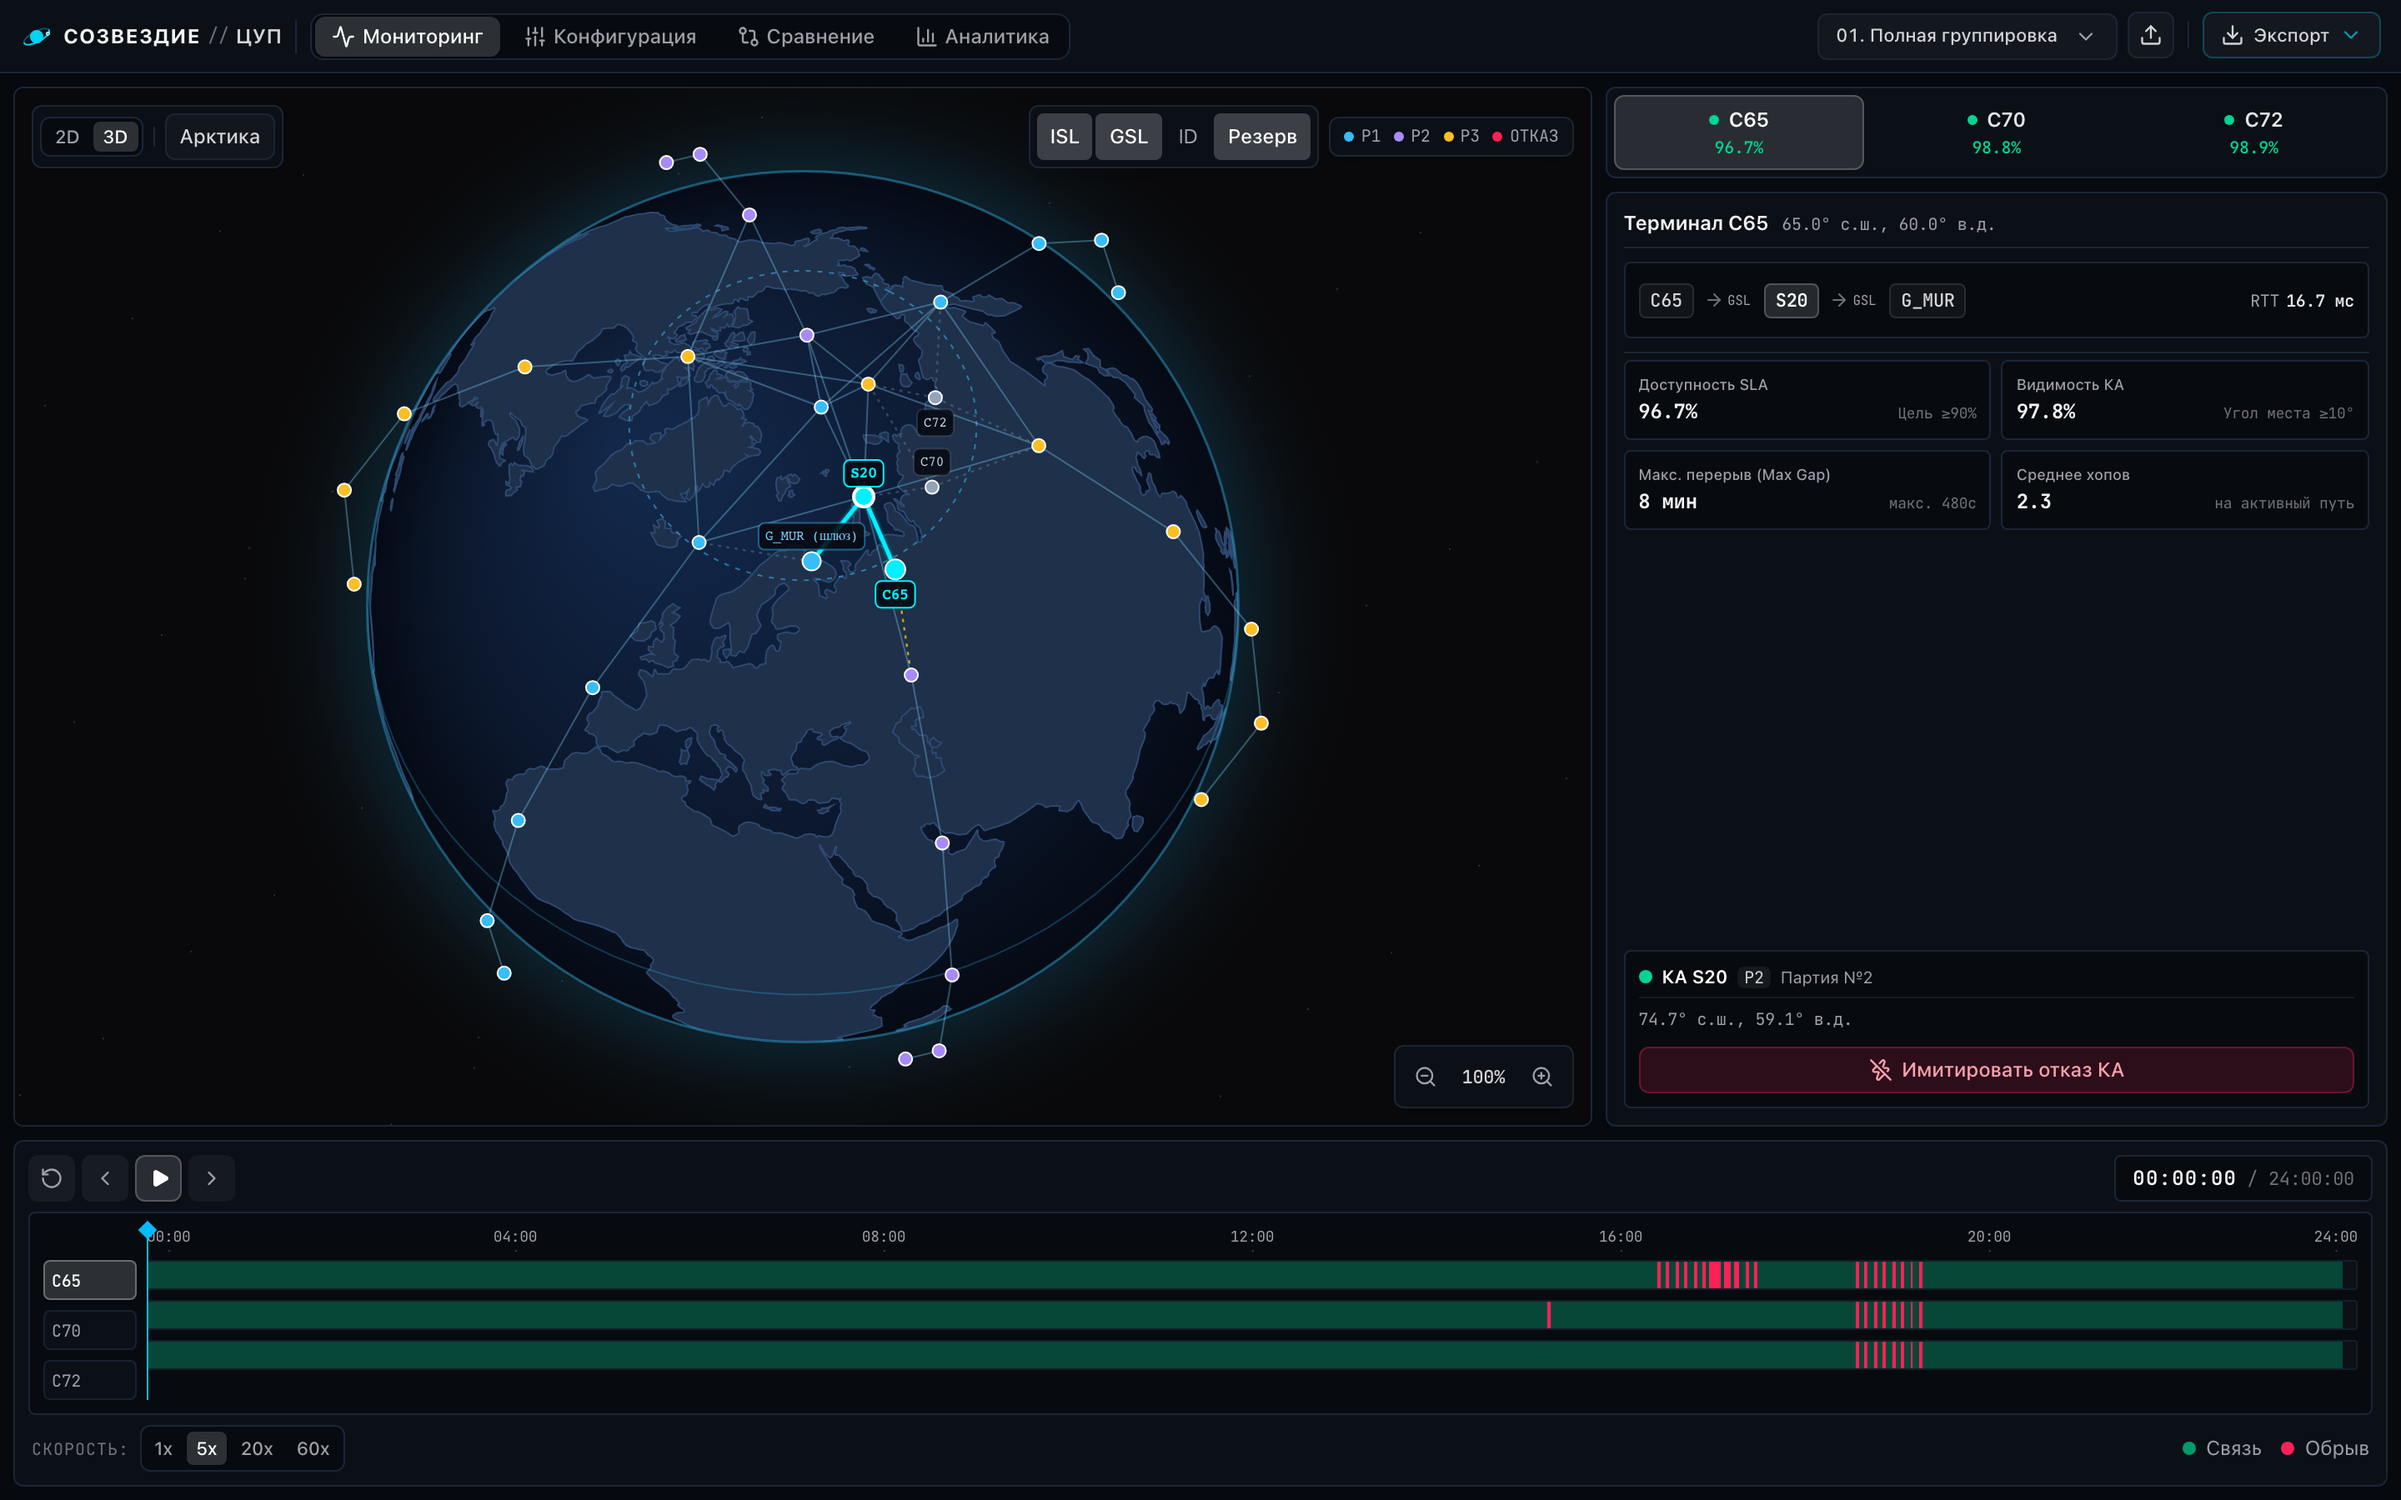
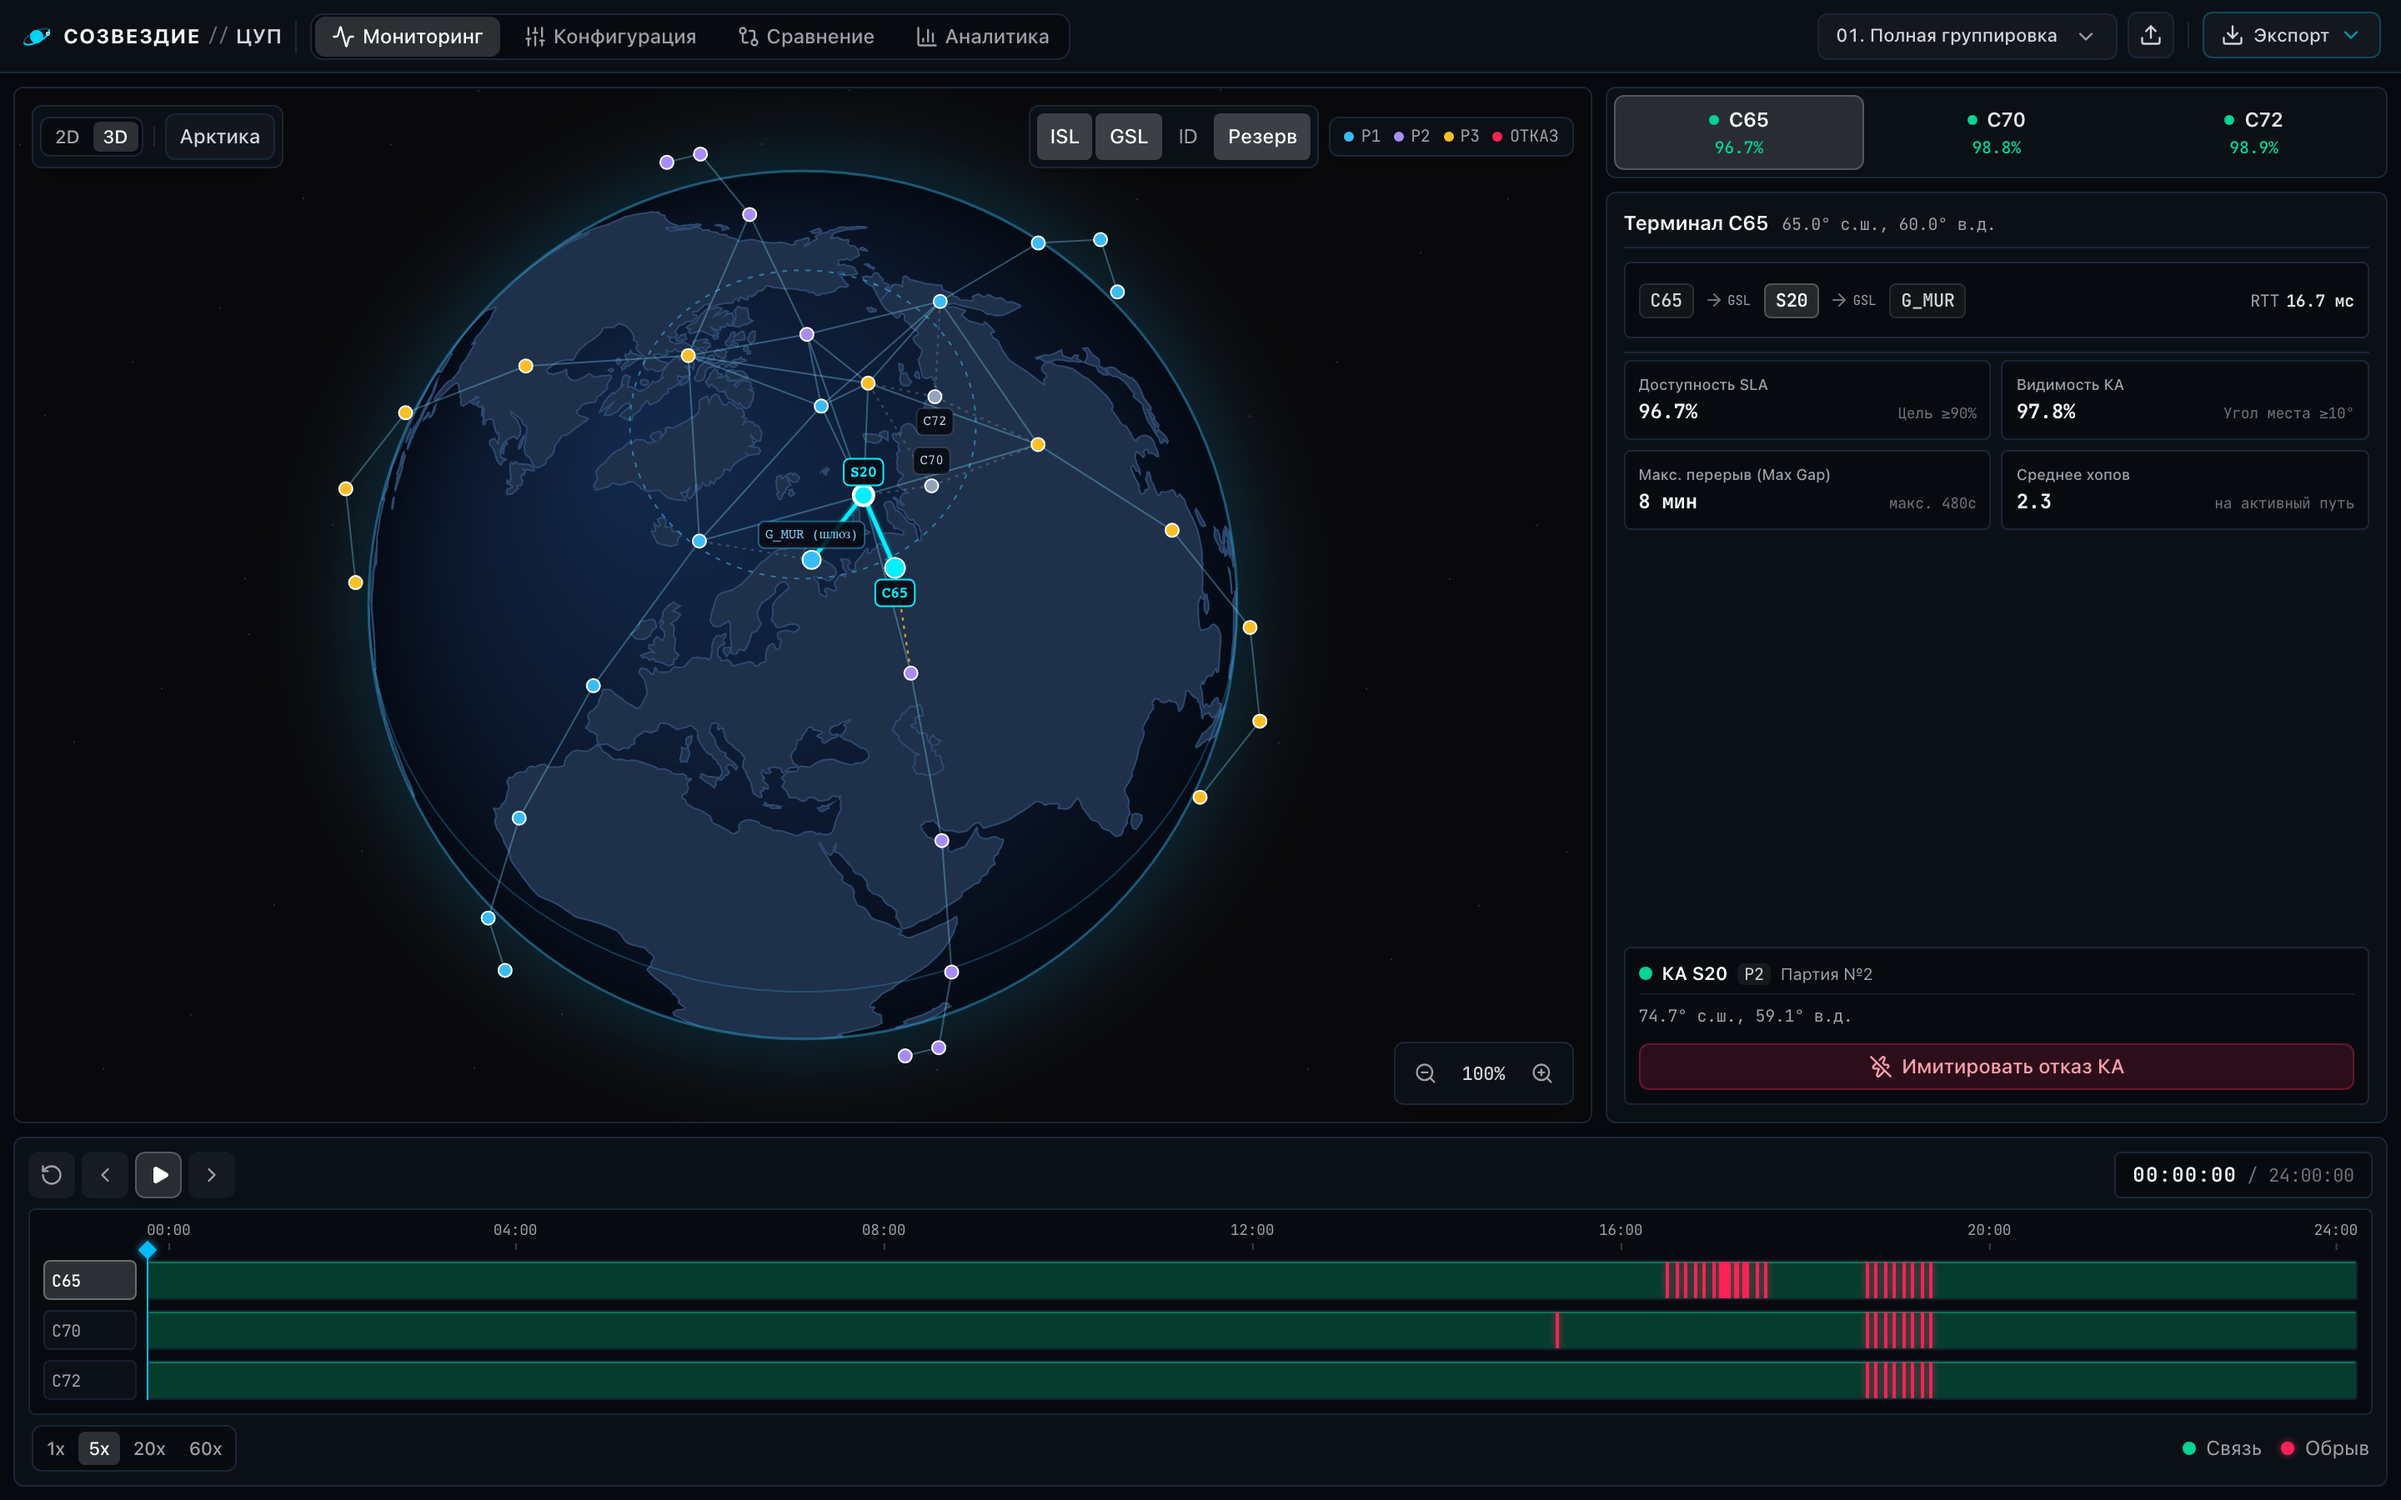
feat(timeline): polish timeline layout, tooltips and update docs assets

diff --git a/frontend/src/components/timeline/TimelinePlayer.tsx b/frontend/src/components/timeline/TimelinePlayer.tsx
@@ -27,6 +27,12 @@ interface ClientGanttStripProps {
   onMouseLeave: () => void
 }
 
+interface GanttSegment {
+  hasPath: boolean
+  startIdx: number
+  length: number
+}
+
 const ClientGanttStrip = React.memo(function ClientGanttStrip({
   clientId,
   slots,
@@ -34,27 +40,72 @@ const ClientGanttStrip = React.memo(function ClientGanttStrip({
   onMouseMove,
   onMouseLeave,
 }: ClientGanttStripProps) {
-  const slotWidth = totalSlots > 0 ? `${100 / totalSlots}%` : '0%'
+  const segments = useMemo(() => {
+    if (!slots || slots.length === 0 || totalSlots <= 0) return []
+    const res: GanttSegment[] = []
+    let cur: GanttSegment = {
+      hasPath: Boolean(slots[0].hasPath),
+      startIdx: 0,
+      length: 1,
+    }
+    for (let i = 1; i < slots.length; i++) {
+      const hp = Boolean(slots[i].hasPath)
+      if (hp === cur.hasPath) {
+        cur.length++
+      } else {
+        res.push(cur)
+        cur = { hasPath: hp, startIdx: i, length: 1 }
+      }
+    }
+    res.push(cur)
+    return res
+  }, [slots, totalSlots])
+
   return (
     <div
       onMouseMove={(e) => onMouseMove(e, clientId)}
       onMouseLeave={onMouseLeave}
-      className="relative w-full h-4.5 bg-[#0b1017] rounded-xs overflow-hidden flex border border-[#1a2636]/60"
+      className="relative w-full h-6 bg-[#070b10] rounded-xs overflow-hidden border border-[#1a2636]/70"
     >
-      {slots?.map((slot, idx) => (
-        <div
-          key={idx}
-          style={{ width: slotWidth }}
-          className={`h-full ${
-            slot.hasPath
-              ? 'bg-emerald-600/40 hover:bg-emerald-500/60'
-              : 'bg-rose-500 hover:bg-rose-400'
-          }`}
-        />
-      ))}
+      {segments.map((seg, idx) => {
+        const leftPct = (seg.startIdx / totalSlots) * 100
+        const widthPct = (seg.length / totalSlots) * 100
+        return (
+          <div
+            key={idx}
+            style={{
+              left: `${leftPct}%`,
+              width: `${widthPct}%`,
+              minWidth: !seg.hasPath ? '2px' : undefined,
+            }}
+            className={`absolute top-0 bottom-0 pointer-events-none ${
+              seg.hasPath
+                ? 'bg-emerald-600/35 border-t border-emerald-400/40'
+                : 'bg-rose-500 shadow-[0_0_4px_rgba(244,63,94,0.6)] z-1'
+            }`}
+          />
+        )
+      })}
     </div>
   )
 })
+
+function formatOutageReason(reason?: string): string {
+  if (!reason) return 'нет пути'
+  if (reason.includes('no_client_satellite') || reason.includes('Нет спутников над')) {
+    return 'вне видимости'
+  }
+  if (reason.includes('gateway_offline') || reason.includes('Шлюз отключен')) {
+    return 'шлюз отключен'
+  }
+  if (reason.includes('no_gateway_satellite') || reason.includes('над шлюзом')) {
+    return 'нет КА над шлюзом'
+  }
+  if (reason.includes('isl_disconnected') || reason.includes('рассоединен')) {
+    return 'меш-сеть разорвана'
+  }
+  return reason
+}
 
 export const TimelinePlayer: React.FC<TimelinePlayerProps> = ({
   scenario,
@@ -229,7 +280,7 @@ export const TimelinePlayer: React.FC<TimelinePlayerProps> = ({
             size="icon"
             onClick={() => onTimeChange(0)}
             title="В начало (00:00:00)"
-            className="h-7 w-7 border border-[#1a2636] bg-white/5 hover:bg-white/10 shrink-0 p-0"
+            className="h-7 w-7 border border-[#1a2636] bg-white/5 hover:bg-white/10 shrink-0 p-0 touch-manipulation"
           >
             <RotateCcw className="w-3.5 h-3.5" />
           </Button>
@@ -240,7 +291,7 @@ export const TimelinePlayer: React.FC<TimelinePlayerProps> = ({
             size="icon"
             onClick={() => onTimeChange(Math.max(0, currentTime - step_s))}
             title="Шаг назад (-120с)"
-            className="h-7 w-7 border border-[#1a2636] bg-white/5 hover:bg-white/10 shrink-0 p-0"
+            className="h-7 w-7 border border-[#1a2636] bg-white/5 hover:bg-white/10 shrink-0 p-0 touch-manipulation"
           >
             <ChevronLeft className="w-3.5 h-3.5" />
           </Button>
@@ -252,7 +303,7 @@ export const TimelinePlayer: React.FC<TimelinePlayerProps> = ({
             onClick={() => setIsPlaying((v) => !v)}
             aria-label={isPlaying ? 'Пауза' : 'Старт'}
             title={isPlaying ? 'Пауза (Пробел)' : 'Воспроизведение (Пробел)'}
-            className="h-7 w-7 shrink-0"
+            className="h-7 w-7 shrink-0 touch-manipulation"
           >
             {isPlaying ? (
               <Pause className="w-3.5 h-3.5 fill-current" />
@@ -267,7 +318,7 @@ export const TimelinePlayer: React.FC<TimelinePlayerProps> = ({
             size="icon"
             onClick={() => onTimeChange(Math.min(horizon_s - step_s, currentTime + step_s))}
             title="Шаг вперед (+120с)"
-            className="h-7 w-7 border border-[#1a2636] bg-white/[0.04] hover:bg-white/[0.08] shrink-0 p-0"
+            className="h-7 w-7 border border-[#1a2636] bg-white/[0.04] hover:bg-white/[0.08] shrink-0 p-0 touch-manipulation"
           >
             <ChevronRight className="w-3.5 h-3.5" />
           </Button>
@@ -285,7 +336,7 @@ export const TimelinePlayer: React.FC<TimelinePlayerProps> = ({
       {/* Middle Area: Gantt & Timeline Scrubber Area */}
       <div className="flex gap-1.5 bg-[#070b10] p-2 rounded border border-[#1a2636]">
         {/* Left Column: Client Pills */}
-        <div className="w-14 shrink-0 flex flex-col gap-1.5 pt-5">
+        <div className="w-12 sm:w-14 shrink-0 flex flex-col gap-1.5 pt-[22px]">
           <ClientSelector
             clients={clients}
             selectedClientId={selectedClientId}
@@ -307,15 +358,15 @@ export const TimelinePlayer: React.FC<TimelinePlayerProps> = ({
         >
           {/* Vertical Playhead Cursor spanning through ruler and all 3 Gantt bars */}
           <div
-            className="absolute top-0 bottom-0 w-px bg-sky-400 pointer-events-none z-20"
+            className="absolute top-4 bottom-0 w-px bg-sky-400 pointer-events-none z-20"
             style={{ left: `${playheadPercent}%` }}
           >
-            {/* Precision top needle marker */}
-            <div className="w-2 h-2 -translate-x-[3.5px] -translate-y-0.5 rotate-45 bg-sky-400" />
+            {/* Precision top needle marker below text line */}
+            <div className="w-2 h-2 -translate-x-[3.5px] -translate-y-1 rotate-45 bg-sky-400 shadow-[0_0_4px_rgba(56,189,248,0.75)]" />
           </div>
 
           {/* Time Ruler */}
-          <div className="relative h-3.5 w-full">
+          <div className="relative h-4 w-full">
             {timeRulerTicks.ticks.map((h, idx) => {
               const pct = (h / (timeRulerTicks.totalHours || 1)) * 100
               const totalMin = Math.round(h * 60)
@@ -339,7 +390,7 @@ export const TimelinePlayer: React.FC<TimelinePlayerProps> = ({
                         : 'translateX(-50%)',
                   }}
                 >
-                  <span className="font-mono text-[9px] text-zinc-400">{label}</span>
+                  <span className="font-mono text-[9px] text-zinc-400 leading-none">{label}</span>
                   <div className="w-px h-1 bg-white/20 mt-auto" />
                 </div>
               )
@@ -363,8 +414,7 @@ export const TimelinePlayer: React.FC<TimelinePlayerProps> = ({
       {/* Bottom Row: Speed Selector & Legend */}
       <div className="flex items-center justify-between gap-2 px-0.5">
         {/* Speed Selector */}
-        <div className="flex items-center gap-1.5 shrink-0">
-          <span className="text-[10px] text-zinc-500 uppercase tracking-wider hidden sm:inline">Скорость:</span>
+        <div className="flex items-center shrink-0">
           <SegmentedControl
             options={speedOptions}
             value={playbackSpeed}
@@ -377,11 +427,11 @@ export const TimelinePlayer: React.FC<TimelinePlayerProps> = ({
         {/* Legend */}
         <div className="flex items-center gap-2.5 sm:gap-3 text-[11px] sm:text-xs text-zinc-400 font-sans shrink-0">
           <span className="flex items-center gap-1.5">
-            <span className="w-2 h-2 rounded-full bg-emerald-500/80" />
+            <span className="w-2 h-2 rounded-full bg-emerald-400" />
             Связь
           </span>
           <span className="flex items-center gap-1.5">
-            <span className="w-2 h-2 rounded-full bg-rose-500" />
+            <span className="w-2 h-2 rounded-full bg-rose-500 shadow-[0_0_4px_rgba(244,63,94,0.6)]" />
             Обрыв
           </span>
         </div>
@@ -395,22 +445,29 @@ export const TimelinePlayer: React.FC<TimelinePlayerProps> = ({
             : tooltipData.x
         return (
           <div
-            className="fixed z-50 pointer-events-none bg-[#0b1017] text-zinc-100 text-[11px] px-2.5 py-1.5 rounded border border-[#1a2636] shadow-xl transform -translate-x-1/2 -translate-y-full"
+            className="fixed z-50 pointer-events-none bg-[#070b10] text-zinc-100 text-[11px] px-2.5 py-1.5 rounded-md border border-[#1a2636] shadow-2xl transform -translate-x-1/2 -translate-y-full mb-1 flex flex-col gap-0.5"
             style={{ left: clampedX, top: tooltipData.y }}
           >
-            <div className="flex items-center gap-2 font-semibold text-sky-300 border-b border-[#1a2636] pb-1 mb-1">
-              <span>{tooltipData.clientId}</span>
-              <span>{formatTime(tooltipData.slot.t_s)}</span>
+            <div className="flex items-center gap-1.5 font-mono text-[10px] text-zinc-400 font-medium">
+              <span className="text-sky-300 font-semibold">{tooltipData.clientId}</span>
+              <span className="text-zinc-600">·</span>
+              <span className="text-zinc-200">{formatTime(tooltipData.slot.t_s)}</span>
             </div>
-            <div className="flex items-center gap-1 text-[10px]">
+            <div className="flex items-center gap-1.5 text-[11px] font-mono whitespace-nowrap">
               {tooltipData.slot.hasPath ? (
-                <span className="text-emerald-400 font-semibold">
-                  Связь активна (Хопов: {tooltipData.slot.hops})
-                </span>
+                <>
+                  <span className="w-1.5 h-1.5 rounded-full bg-emerald-400 shrink-0" />
+                  <span className="text-emerald-400 font-semibold">
+                    Доступно · {tooltipData.slot.hops} {tooltipData.slot.hops === 1 ? 'хоп' : 'хопа'}
+                  </span>
+                </>
               ) : (
-                <span className="text-rose-400 font-semibold">
-                  Обрыв: {tooltipData.slot.reason || 'Нет пути'}
-                </span>
+                <>
+                  <span className="w-1.5 h-1.5 rounded-full bg-rose-500 shadow-[0_0_4px_rgba(244,63,94,0.6)] shrink-0" />
+                  <span className="text-rose-400 font-semibold">
+                    Обрыв: {formatOutageReason(tooltipData.slot.reason)}
+                  </span>
+                </>
               )}
             </div>
           </div>

diff --git a/frontend/src/components/timeline/TimelinePlayer.test.tsx b/frontend/src/components/timeline/TimelinePlayer.test.tsx
@@ -322,7 +322,7 @@ describe('TimelinePlayer Component', () => {
     )
 
     // Select the first client's Gantt row container inside the timeline
-    const ganttRow = container.querySelector('.cursor-ew-resize .h-4\\.5') as HTMLElement
+    const ganttRow = container.querySelector('.cursor-ew-resize .h-6') as HTMLElement
     expect(ganttRow).not.toBeNull()
 
     // 720 slots across 720px -> each slot = 1px
@@ -340,14 +340,14 @@ describe('TimelinePlayer Component', () => {
 
     // Hover slot 0 (even index, hasPath: true)
     fireEvent.mouseMove(ganttRow, { clientX: 0.5 })
-    expect(screen.getByText('Связь активна (Хопов: 2)')).toBeDefined()
+    expect(screen.getByText(/Доступно · 2 хопа/)).toBeDefined()
 
     // Hover slot 1 (odd index, hasPath: false)
     fireEvent.mouseMove(ganttRow, { clientX: 1.5 })
-    expect(screen.getByText(/Обрыв: no_client_satellite/)).toBeDefined()
+    expect(screen.getByText(/Обрыв: вне видимости/)).toBeDefined()
 
     // Mouse leave removes tooltip
     fireEvent.mouseLeave(ganttRow)
-    expect(screen.queryByText(/Связь активна/)).toBeNull()
+    expect(screen.queryByText(/Доступно/)).toBeNull()
   })
 })
